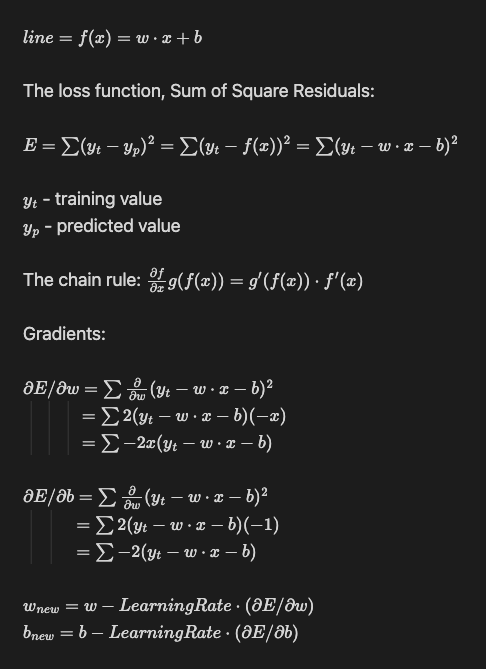
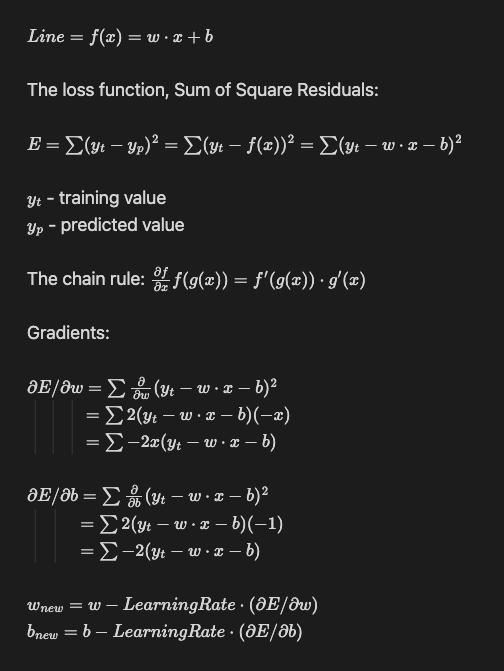
Update math

diff --git a/math.md b/math.md
@@ -9,7 +9,7 @@ $y_t$ - training value
 
 $y_p$ - predicted value
 
-The chain rule: $\frac{∂f}{∂x}g(f(x)) = g'(f(x)) \cdot f'(x)$
+The chain rule: $\frac{∂f}{∂x}f(g(x)) = f'(g(x)) \cdot g'(x)$
 
 
 Gradients:
@@ -21,7 +21,7 @@ $= ∑2(y_t - w \cdot x - b)(-x)$
 $= ∑-2x(y_t - w \cdot x - b)$
 
 
-$∂E/∂b = ∑\frac{∂}{∂w}(y_t - w \cdot x - b)^2$
+$∂E/∂b = ∑\frac{∂}{∂b}(y_t - w \cdot x - b)^2$
 
 $= ∑2(y_t - w \cdot x - b)(-1)$
           
